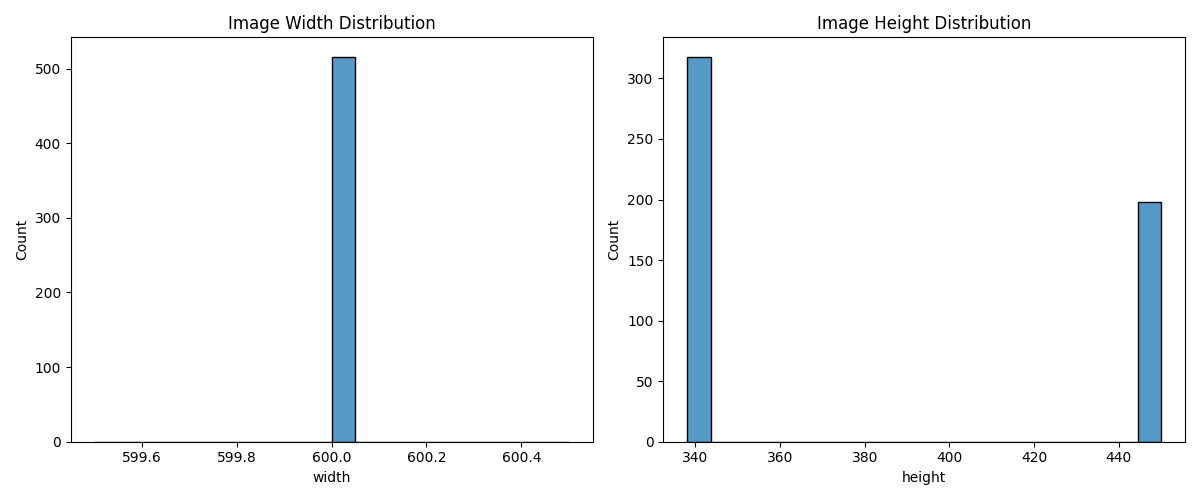
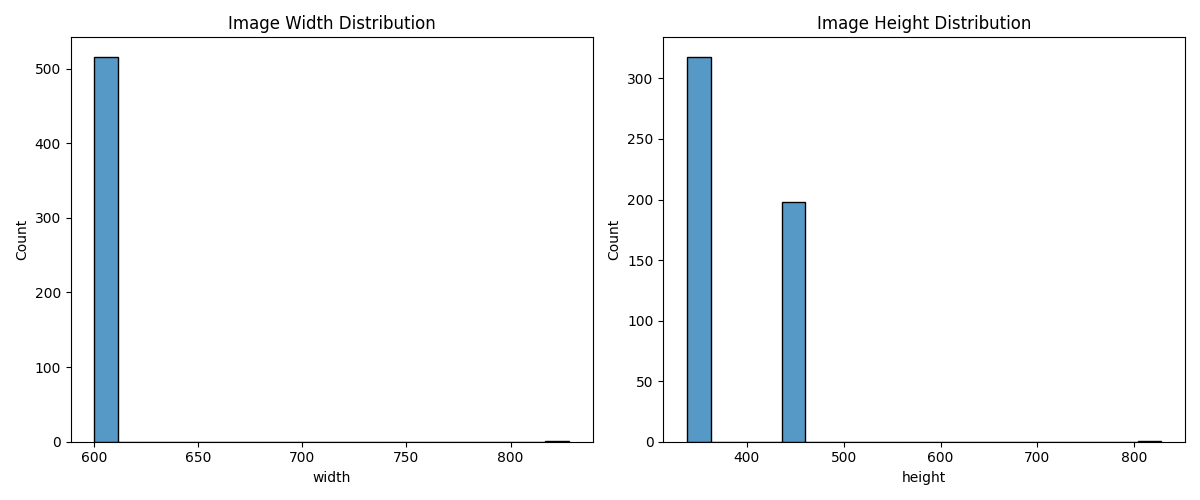
fix: misc

diff --git a/macro_project/src/gui.py b/macro_project/src/gui.py
@@ -13,7 +13,7 @@ class App(tk.Tk):
     def __init__(self) -> None:
         super().__init__()
 
-        self.title("program")
+        self.title("Macro project")
         self.resizable(True, True)
         self.minsize(500, 400)
         self.state("normal")
@@ -32,7 +32,7 @@ class App(tk.Tk):
         self.header.config(relief="raised", border=2)
         self.header.columnconfigure(1, weight=1)
 
-        tk.Label(self.header, text="Program", font=("Helvetica", 16, "bold italic")).grid(row=0, column=0)
+        tk.Label(self.header, text="Macro project", font=("Helvetica", 16, "bold italic")).grid(row=0, column=0)
 
         self.nav_file_manager = tk.Button(self.header, text="manage files", command=lambda:self.switch_active_page(self.page_file_manager))
         self.nav_2 = tk.Button(self.header, text="EDA", command=lambda:self.switch_active_page(self.page_eda))

diff --git a/macro_project/src/main.py b/macro_project/src/main.py
@@ -1,17 +1,6 @@
 import config
 import services.dataset_indexer as di
 import services.eda_service as eda
+import gui
 
-print("test")
-
-test_data_frame = di.DatasetIndexer().build_dataframe()
-print("test")
-eda_service = eda.EDAService(test_data_frame, config.EDA_OUTPUT_DIR)
-print("test")
-print(eda_service)
-print("test")
-eda_service.save_class_distribution()
-print("test")
-eda_service.save_image_size_distribution()
-print("test")
-print(eda_service.build_summary())
+gui.App().mainloop()
